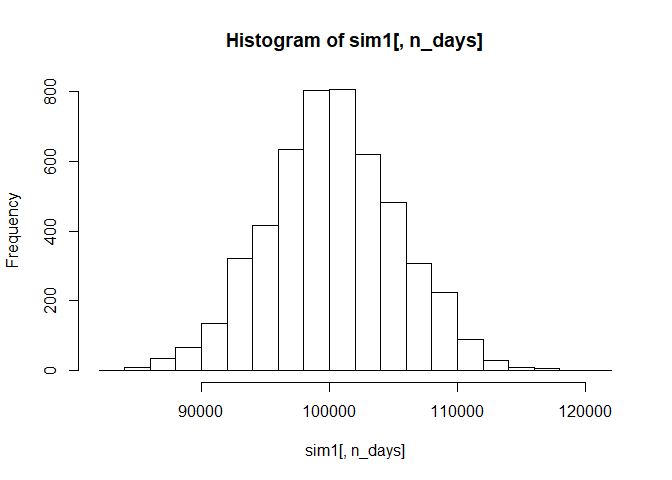
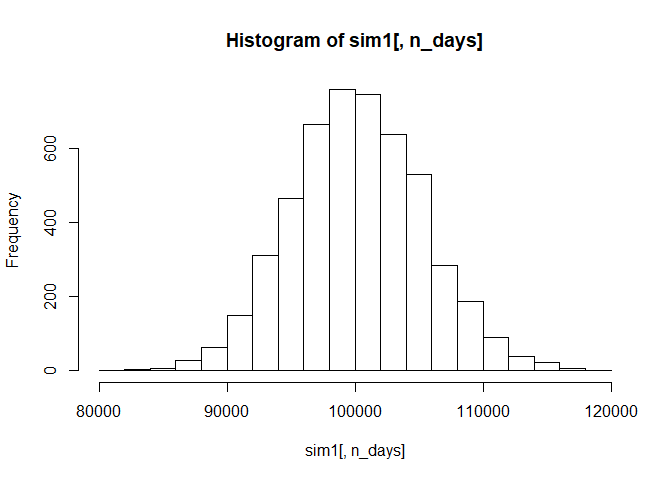
Q4 changes

diff --git a/STA380/STA380_HW.md b/STA380/STA380_HW.md
@@ -591,33 +591,33 @@ head(sim1)
 ```
 
     ##               [,1]      [,2]      [,3]      [,4]      [,5]      [,6]
-    ## result.1 100878.37 102446.95 103766.84 103646.12 104767.27 104204.21
-    ## result.2  98482.10  99063.65  99272.51  99883.00  99266.90  98065.57
-    ## result.3  98943.59  99681.66  99680.42  99434.05 100872.53 101649.78
-    ## result.4  99159.96  98510.09  99480.34 100871.50 101302.23 100903.90
-    ## result.5  99423.84  98772.24  98947.57 100066.14  99808.79 100296.18
-    ## result.6 100093.29  98121.07  97147.27  99217.51  98231.58  95717.36
+    ## result.1  97453.30  98213.51  97385.33  95542.73  96968.26  96474.51
+    ## result.2  99691.21  99553.83  99957.92 100404.08 101033.39 101127.64
+    ## result.3 100097.74 100437.68 100042.74  99756.83 100038.37  97939.84
+    ## result.4  98827.97  99108.57  99445.15  98638.43  97353.76  98230.98
+    ## result.5  99526.76  99090.88 100194.83 100805.82 100285.54 100286.23
+    ## result.6 100676.92 101243.96 103312.48 103892.81 104630.83 104101.97
     ##               [,7]      [,8]      [,9]     [,10]     [,11]     [,12]
-    ## result.1 104246.94 103862.82 103965.96 105920.92 105492.99 105891.09
-    ## result.2  98771.84  97288.57  96361.12  95418.14  95053.13  94442.29
-    ## result.3 103655.68 104193.80 103093.09 103472.15 102963.41 106004.05
-    ## result.4  99293.57 101353.08 103150.24 102051.49 102205.53 101543.95
-    ## result.5 101185.66 101353.76 100822.23  99966.54 100462.73 101590.10
-    ## result.6  95861.58  95739.22  96391.42  96594.81  96462.18  97806.24
-    ##              [,13]     [,14]     [,15]     [,16]     [,17]     [,18]
-    ## result.1 106670.60 107721.50 106148.25 106924.61 106112.95 104085.77
-    ## result.2  94400.62  93978.56  92108.03  92744.05  93143.10  91889.56
-    ## result.3 106880.19 107424.97 107157.52 106514.32 106538.98 105394.16
-    ## result.4 101798.94 101645.34 102163.85 101329.72 102962.72 102793.28
-    ## result.5 103559.73 104529.62 104468.27 104807.08 104386.76 104838.25
-    ## result.6  97627.42  97469.44  97001.79  97547.13  97273.23  99039.94
+    ## result.1  97542.33  97582.95  98071.65  98875.19  98792.02  99562.67
+    ## result.2 101944.58 103019.85 104437.96 101428.06 102159.42 101353.82
+    ## result.3  97893.30  98135.82  98832.94  97542.59  96812.77  96635.76
+    ## result.4  97097.39  97230.05  97827.49  98187.19  98994.30  99794.13
+    ## result.5 100122.05  98801.63  98448.89  99988.87  98785.14  98000.78
+    ## result.6 103911.64 103804.87 102148.24 102488.82 103867.42 104495.44
+    ##              [,13]     [,14]     [,15]     [,16]    [,17]     [,18]
+    ## result.1 100664.67 101690.90 100959.08 102645.50 102241.8 103386.95
+    ## result.2  99518.83  98065.38  98840.27  99670.17 100165.8 100102.87
+    ## result.3  96337.71  96165.74  95586.41  95564.48  96176.0  95941.99
+    ## result.4  99752.54  99306.55  99322.60  99311.93  99839.1 100548.32
+    ## result.5  97177.53  97215.89  95529.03  95267.42  95816.1  95893.27
+    ## result.6 103857.06 105290.19 106320.90 107304.64 107488.4 108671.81
     ##              [,19]     [,20]
-    ## result.1 102930.35 102787.49
-    ## result.2  92695.42  93363.81
-    ## result.3 104714.60 105021.84
-    ## result.4 103540.23 102911.48
-    ## result.5 101557.02 101141.26
-    ## result.6  99064.17  98804.98
+    ## result.1 104185.64 103836.15
+    ## result.2 101269.56 102565.13
+    ## result.3  94777.30  95789.88
+    ## result.4  99381.18  98331.30
+    ## result.5  96669.68  96118.37
+    ## result.6 109334.50 108528.61
 
 ``` r
 hist(sim1[,n_days], 25)
@@ -630,7 +630,7 @@ hist(sim1[,n_days], 25)
 mean(sim1[,n_days])
 ```
 
-    ## [1] 100278.3
+    ## [1] 100216.4
 
 ``` r
 hist(sim1[,n_days]- initial_wealth, breaks=30,xlab = "Returns",main="Distribution of returns")
@@ -645,7 +645,7 @@ quantile(sim1[,n_days]- initial_wealth, 0.05)
 ```
 
     ##        5% 
-    ## -7991.856
+    ## -8050.543
 
 Technology ETFs
 ---------------
@@ -717,33 +717,33 @@ head(sim1)
 ```
 
     ##               [,1]      [,2]      [,3]      [,4]      [,5]      [,6]
-    ## result.1 101206.03  99875.27  96176.89  97747.18  97772.19  95702.55
-    ## result.2  98908.83 100744.08 101404.80 100465.15  99981.65  99917.58
-    ## result.3 101483.21 101205.78 100686.92 101558.79 102438.20 102553.36
-    ## result.4 101004.73 102128.03 104638.06 105243.49 107286.37 107649.30
-    ## result.5  97773.14 101772.01 101642.34 101083.47  99489.66  98889.35
-    ## result.6 100663.19  99980.90 100444.47 100293.90 100780.92 100535.00
+    ## result.1 102511.17 103527.94 104958.54 105714.89 105741.11 107587.44
+    ## result.2 101219.39 101588.85  97447.35  98915.50  98215.76  98367.02
+    ## result.3  99505.16  99218.64  97304.72  97851.03  96881.47  98716.52
+    ## result.4 100720.62 100577.52 101182.75 102258.71 101023.48 101570.91
+    ## result.5  99031.35 100162.43 100627.79 100777.15 100741.06 100793.53
+    ## result.6 100038.64 103299.27 103953.18 104578.72 104300.72 104458.09
     ##               [,7]      [,8]      [,9]     [,10]     [,11]     [,12]
-    ## result.1  96581.80  95936.03  95563.38  94809.13  92871.78  91888.10
-    ## result.2 101841.36 102614.78 102088.70 102892.55 103511.71 103388.63
-    ## result.3  99783.37 100060.06 101392.91 102263.45 100986.21 101987.86
-    ## result.4 107294.07 108308.62 108823.68 107062.47 108307.72 110238.05
-    ## result.5  99230.34  99368.36  99100.49  95587.44  96266.81  96500.17
-    ## result.6 100843.16 100568.04 100727.30 101364.93 100468.21 100398.38
+    ## result.1 107951.39 107890.52 107932.70 107577.95 108553.17 107848.17
+    ## result.2  99568.40  97534.98  94650.80  94196.57  94358.54  94314.78
+    ## result.3  98616.71  98203.31  97984.69  98135.59  98932.39  99492.40
+    ## result.4 100647.88  96920.90  97151.47  97801.62  97163.10  96703.61
+    ## result.5 101422.12 101634.62 102813.87 102126.44 100731.22  99956.71
+    ## result.6 103993.12 106194.73 106754.30 107319.76 107350.07 105103.34
     ##              [,13]     [,14]     [,15]     [,16]     [,17]     [,18]
-    ## result.1  91123.16  91364.77  89696.73  91445.22  93542.93  92901.06
-    ## result.2 103360.97 103128.36 103574.39 105090.47 103989.96 102644.44
-    ## result.3 103064.05 102079.61 102276.60 101083.01  99584.69 100196.41
-    ## result.4 110910.34 110090.70 110284.24 110766.34 111408.32 112205.63
-    ## result.5  96363.07  97022.24  96994.51  94968.85  96469.28  96648.44
-    ## result.6 101445.28 101698.99 101240.62 100186.88  99153.18  98534.05
+    ## result.1 106456.73 106389.33 109952.80 110936.63 111244.24 111606.64
+    ## result.2  94303.20  93819.97  93443.07  93091.19  92600.72  89992.72
+    ## result.3  99092.72  97591.78  96126.25  97099.24  95612.03  97420.03
+    ## result.4  95791.81  96395.41  97562.79  95675.91  95538.91  95656.69
+    ## result.5  99352.11 100045.31 101138.91 101821.10 101439.06 101325.82
+    ## result.6 104129.42 104017.75 106146.83 108240.42 106172.85 103578.99
     ##              [,19]     [,20]
-    ## result.1  92815.41  91704.68
-    ## result.2 105001.02 103945.11
-    ## result.3 101201.86 101291.43
-    ## result.4 112840.77 113188.20
-    ## result.5  98626.68 100705.58
-    ## result.6  97237.83  97788.24
+    ## result.1 110653.06 111833.32
+    ## result.2  90041.56  91223.84
+    ## result.3  94978.95  93547.47
+    ## result.4  95710.82  97236.20
+    ## result.5 103391.36 104714.55
+    ## result.6 100630.46  99886.82
 
 ``` r
 hist(sim1[,n_days], 25)
@@ -756,7 +756,7 @@ hist(sim1[,n_days], 25)
 mean(sim1[,n_days])
 ```
 
-    ## [1] 100497.3
+    ## [1] 100245.9
 
 ``` r
 hist(sim1[,n_days]- initial_wealth, breaks=30,xlab = "Returns",main="Distribution of returns")
@@ -771,7 +771,7 @@ quantile(sim1[,n_days]- initial_wealth, 0.05)
 ```
 
     ##        5% 
-    ## -7885.498
+    ## -8292.688
 
 Diversified ETFs
 ----------------
@@ -848,7 +848,7 @@ hist(sim3[,n_days], 25)
 mean(sim3[,n_days])
 ```
 
-    ## [1] 100497.5
+    ## [1] 100434.7
 
 ``` r
 hist(sim3[,n_days]- initial_wealth, breaks=30,xlab = "Returns",main="Distribution of returns")
@@ -862,8 +862,8 @@ The tail risk at 5% level :
 quantile(sim3[,n_days]- initial_wealth, 0.05)
 ```
 
-    ##       5% 
-    ## -7867.57
+    ##        5% 
+    ## -7810.882
 
 Summary:
 --------
@@ -1008,6 +1008,10 @@ wss = (nrow(comp)-1)*sum(apply(comp,2,var))
 for (i in 2:15) 
   wss[i] = sum(kmeans(comp,centers=i)$withinss)
 ```
+
+    ## Warning: did not converge in 10 iterations
+
+    ## Warning: did not converge in 10 iterations
 
     ## Warning: did not converge in 10 iterations
 
@@ -1200,17 +1204,28 @@ Market Segments According to Correlated Interests
 -------------------------------------------------
 
 K-means++ clustering with 6 clusters of sizes 2254, 976, 719, 1208,
-1280, 1445: \* Young to middle-aged women (Cluster 1): Photo sharing,
-shopping, home & garden are interests largely related with young women
-in their mid-twenties to forties. \* Fashion, Food and Beauty
-Enthusiasts (Cluster 2): Customer interests include fashion, beauty and
-cooking. \* College Students (Cluster 3): This group of customers tweet
-daily about their college life, online gaming and sports playing. \*
+1280, 1445:
+<ol>
+<li>
+Young to middle-aged women (Cluster 1): Photo sharing, shopping, home &
+garden are interests largely related with young women in their
+mid-twenties to forties.
+<li>
+Fashion, Food and Beauty Enthusiasts (Cluster 2): Customer interests
+include fashion, beauty and cooking.
+<li>
+College Students (Cluster 3): This group of customers tweet daily about
+their college life, online gaming and sports playing.
+<li>
 Parents (Cluster 4): Customer interests include parenting, family,
-religion, school \* Middle-aged working-class men (Cluster 5): Customer
-interests include politics, travel, automotive. \* Fitness Enthusiasts
-(Cluster 6): Customer interests include health & nutrition, personal
-fitness, outdoors.
+religion, school
+<li>
+Middle-aged working-class men (Cluster 5): Customer interests include
+politics, travel, automotive.
+<li>
+Fitness Enthusiasts (Cluster 6): Customer interests include health &
+nutrition, personal fitness, outdoors.
+</ol>
 
 ``` r
 #cluster1
@@ -1723,9 +1738,9 @@ groceryrules = apriori(grocery_trans,
     ## Absolute minimum support count: 9 
     ## 
     ## set item appearances ...[0 item(s)] done [0.00s].
-    ## set transactions ...[168 item(s), 9835 transaction(s)] done [0.00s].
+    ## set transactions ...[168 item(s), 9835 transaction(s)] done [0.01s].
     ## sorting and recoding items ... [154 item(s)] done [0.00s].
-    ## creating transaction tree ... done [0.00s].
+    ## creating transaction tree ... done [0.01s].
     ## checking subsets of size 1 2 3 4
 
     ## Warning in apriori(grocery_trans, parameter = list(support = 0.001,
